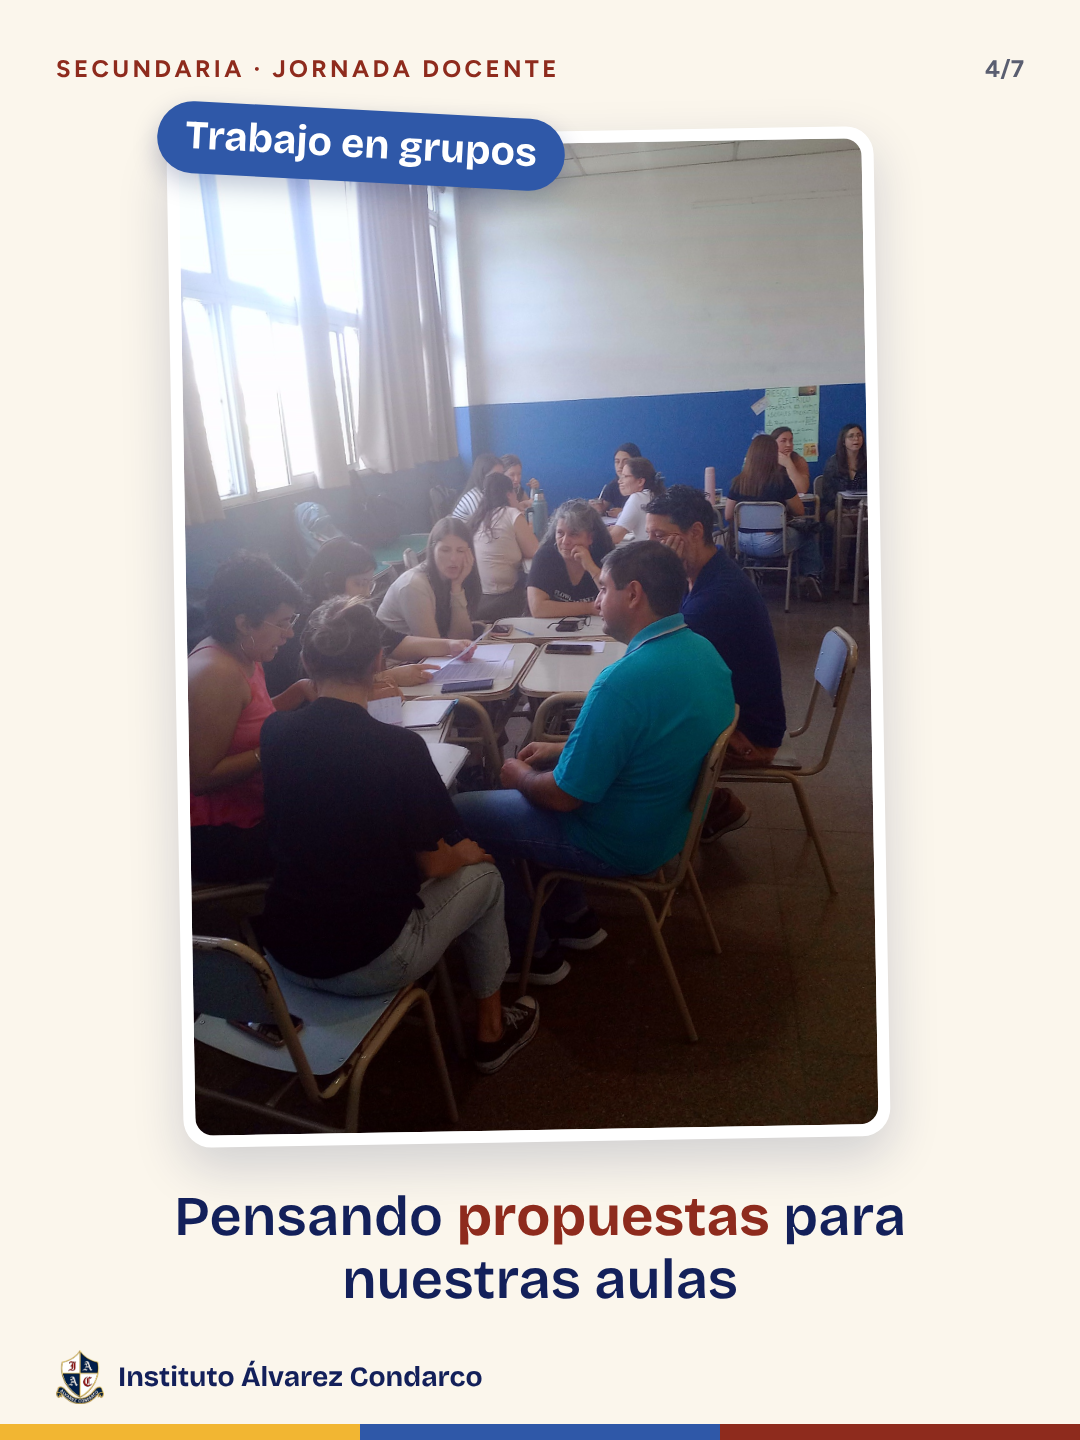
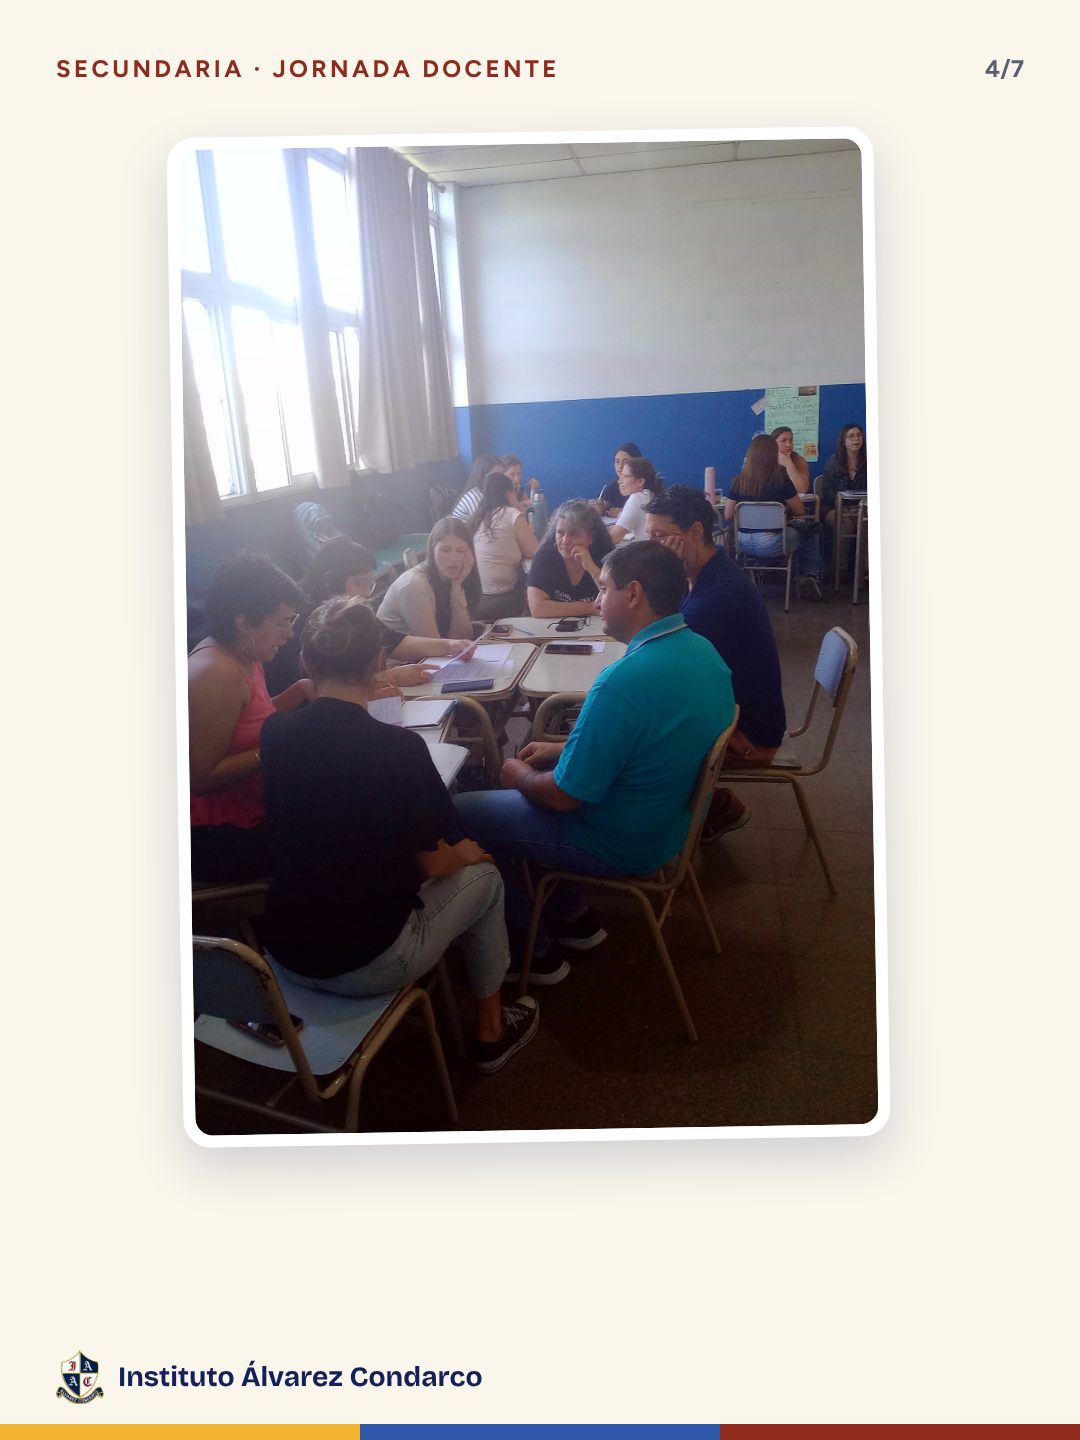
Carrusel jornada docente: textos acotados
Claude-Session: https://claude.ai/code/session_0159ATbsUYcGchepWZZ2HyWK

Changed region(s): [[0.1528, 0.8125, 0.8556, 0.9062], [0.1222, 0.0625, 0.5194, 0.1562]]

diff --git a/instagram-reels/src/jornada/PostJornada.tsx b/instagram-reels/src/jornada/PostJornada.tsx
@@ -14,11 +14,11 @@ const B: React.FC<{children: React.ReactNode}> = ({children}) => <span style={{c
 type Placa = {src: string; src2?: string; w: number; h: number; pos?: string; chip?: string; texto?: React.ReactNode; chico?: boolean};
 
 const PLACAS: Placa[] = [
-	{src: 'fila.jpg', w: 1280, h: 960, chip: 'Nuevo Régimen Académico', texto: <>Analizamos juntos el <B>nuevo Régimen Académico</B></>},
-	{src: 'grupo-charla.jpg', w: 1449, h: 2576, pos: '50% 58%', chip: 'En equipo', texto: <>Intercambio de <B>miradas y experiencias</B></>},
-	{src: 'grupos.jpg', w: 1449, h: 2576, pos: '50% 50%', chip: 'Trabajo en grupos', texto: <>Pensando <B>propuestas</B> para nuestras aulas</>},
-	{src: 'grupo-ventana.jpg', w: 1449, h: 2576, pos: '50% 50%', chip: 'Acuerdos', texto: <>Construyendo <B>acuerdos</B> institucionales</>},
-	{src: 'presentacion-2.jpg', w: 1280, h: 960, chip: 'Formación', texto: <>Seguimos <B>aprendiendo</B> para acompañar mejor a nuestros alumnos</>, chico: true},
+	{src: 'fila.jpg', w: 1280, h: 960},
+	{src: 'grupo-charla.jpg', w: 1449, h: 2576, pos: '50% 58%'},
+	{src: 'grupos.jpg', w: 1449, h: 2576, pos: '50% 50%'},
+	{src: 'grupo-ventana.jpg', w: 1449, h: 2576, pos: '50% 50%'},
+	{src: 'presentacion-2.jpg', w: 1280, h: 960},
 ];
 
 const CHIPS: [string, string][] = [
@@ -77,7 +77,7 @@ export const PostJornada: React.FC = () => (
 			<div style={{fontFamily: DISPLAY, fontWeight: 700, fontSize: 92, lineHeight: 1, letterSpacing: '-0.02em', color: C.azul}}>
 				Jornada <span style={{color: C.bordo}}>docente</span>
 			</div>
-			<div style={{fontSize: 34, lineHeight: 1.35, color: C.tintaSuave}}>Nuestros profes del Nivel Secundario trabajaron sobre el nuevo Régimen Académico.</div>
+			<div style={{fontSize: 34, lineHeight: 1.35, color: C.tintaSuave}}>Nivel Secundario · Nuevo Régimen Académico</div>
 		</div>
 		<div style={{position: 'absolute', top: 1352, right: 56, display: 'flex', alignItems: 'center', gap: 10, padding: '12px 26px', borderRadius: 999, background: C.bordo, color: C.papel, fontSize: 28, fontWeight: 700}}>
 			Deslizá
@@ -127,10 +127,9 @@ export const PostJornadaFin: React.FC = () => (
 			<Img src={staticFile('img/escudo.png')} style={{width: 290}} />
 		</div>
 		<div style={{position: 'absolute', left: 70, right: 70, top: 680, textAlign: 'center', fontFamily: DISPLAY, fontWeight: 600, fontSize: 46, lineHeight: 1.3, color: C.azul}}>
-			Gracias a nuestro <span style={{color: C.bordo}}>equipo docente</span> por su <span style={{color: C.bordo}}>compromiso</span> y por seguir pensando la escuela que queremos para nuestros alumnos.
+			Gracias a nuestro <span style={{color: C.bordo}}>equipo docente</span> por su <span style={{color: C.bordo}}>compromiso</span>.
 		</div>
 		<div style={{position: 'absolute', left: 70, right: 70, top: 1150, textAlign: 'center', fontFamily: DISPLAY, fontWeight: 700, fontSize: 54, lineHeight: 1.15, color: C.bordo}}>
-			Juntos, construimos cada día.
 		</div>
 	</Base>
 );
